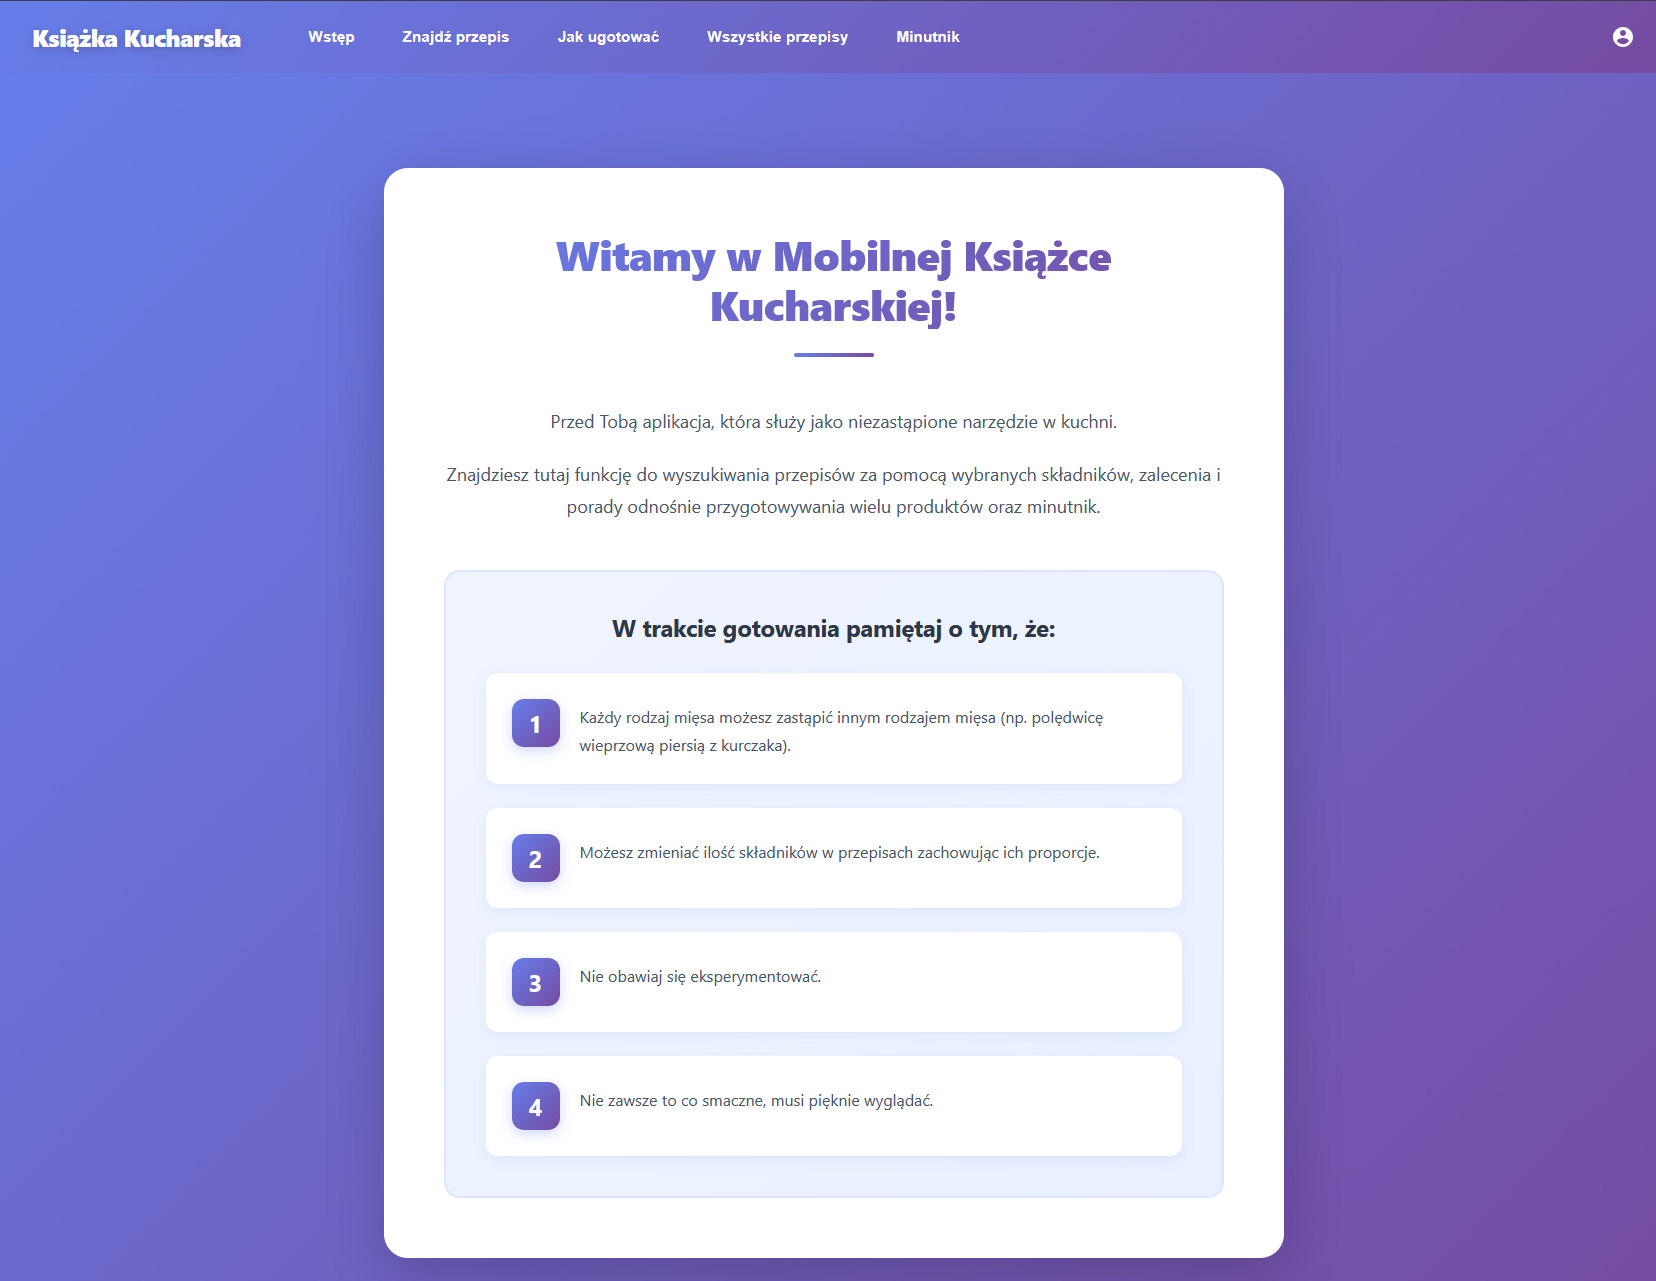
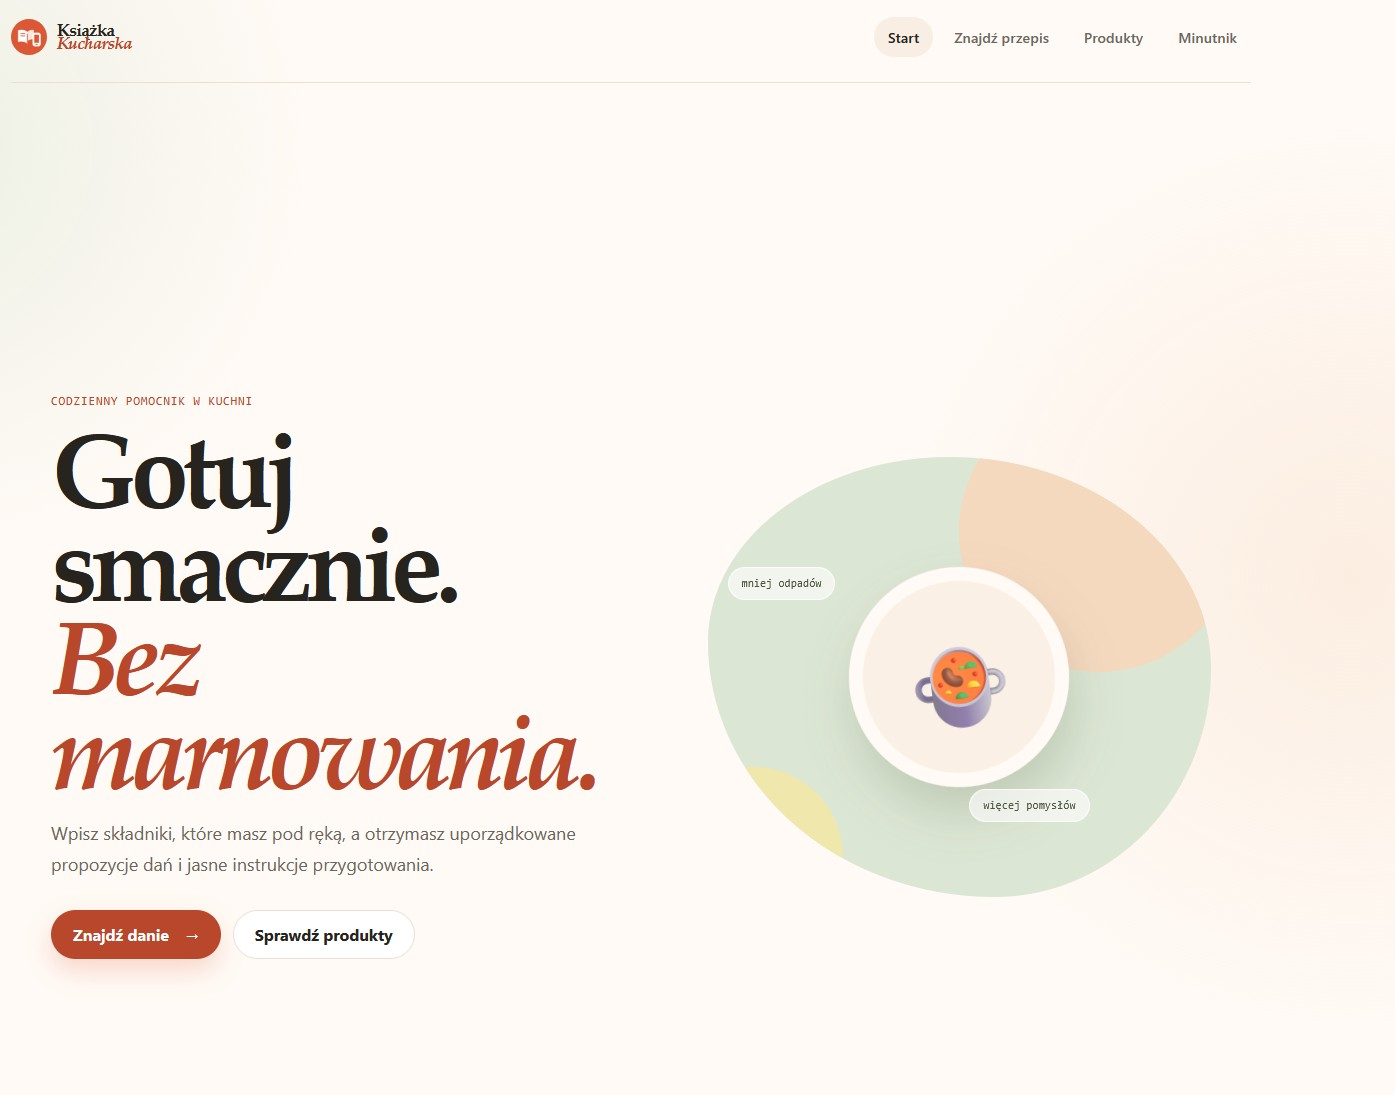
update: portfolio update

diff --git a/src/components/portfolio/Portfolio.js b/src/components/portfolio/Portfolio.js
@@ -285,6 +285,12 @@ const Portfolio = () => {
             technologies: t('portfolio.projects.shelltyPromptCoach.tech', { returnObjects: true }),
             role: t('portfolio.projects.shelltyPromptCoach.role', { defaultValue: 'Developer' }),
             year: '2026',
+            testAccount: {
+                fields: [
+                    { labelKey: 'login', value: '[email redacted]' },
+                    { labelKey: 'password', value: 'testowe123' },
+                ],
+            },
         },
         {
             id: "smartQuoteAI",